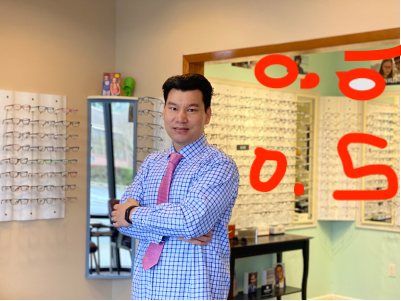
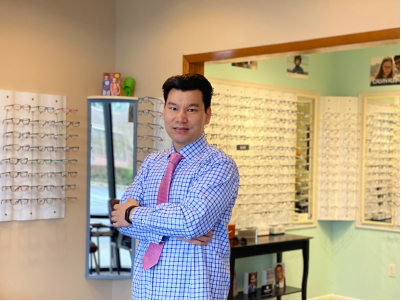
transition 좀더 느리게, 이미지 교체 반응형 다시 셋팅

diff --git a/styles.css b/styles.css
@@ -87,18 +87,18 @@ li {
 
 .scaledown {
   transform: scale(0.7);
-  -webkit-transition: all 0.2s ease-in-out;
-  -moz-transition: all 0.2s ease-in-out;
-  -o-transition: all 0.2s ease-in-out;
-  transition: all 0.2s ease-in-out;
+  -webkit-transition: all 0.4s ease-out;
+  -moz-transition: all 0.4s ease-out;
+  -o-transition: all 0.4s ease-out;
+  transition: all 0.4s ease-out;
 }
 
 .slideout {
   transform: translateX(-40px);
-  -webkit-transition: all 0.2s ease-in-out;
-  -moz-transition: all 0.2s ease-in-out;
-  -o-transition: all 0.2s ease-in-out;
-  transition: all 0.2s ease-in-out;
+  -webkit-transition: all 0.4s ease-out;
+  -moz-transition: all 0.4s ease-out;
+  -o-transition: all 0.4s ease-out;
+  transition: all 0.4s ease-out;
 }
 
 .opacity_title {
@@ -188,7 +188,7 @@ li {
   font-size: 14px;
 }
 
-@media (max-width: 560px) {
+@media (min-width: 320px) {
   /* images */
   .img-1 {
     background-image: url("img/1@0.5x.jpg");
@@ -218,7 +218,7 @@ li {
   }
 }
 
-@media (max-width: 1020px) {
+@media (min-width: 860px) {
   .img-1 {
     background-image: url("img/1@1x.jpg");
   }

diff --git a/index.html b/index.html
@@ -95,6 +95,7 @@
           can count on for all of your vision health needs. We make eye care our
           top priority, so you can focus on the things you care.
           <br />
+          <br />
           We are conveniently located on Meridian Avenue East (161), right
           across Pope Elementary School (Former Firgrove Elementary) in
           Puyallup.
